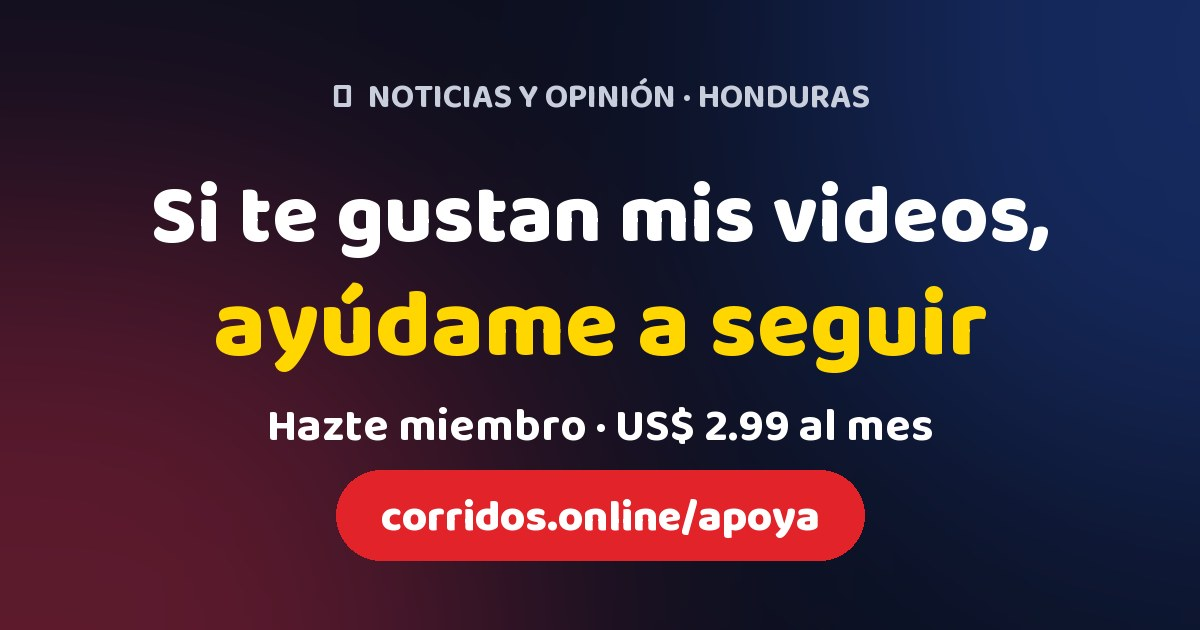
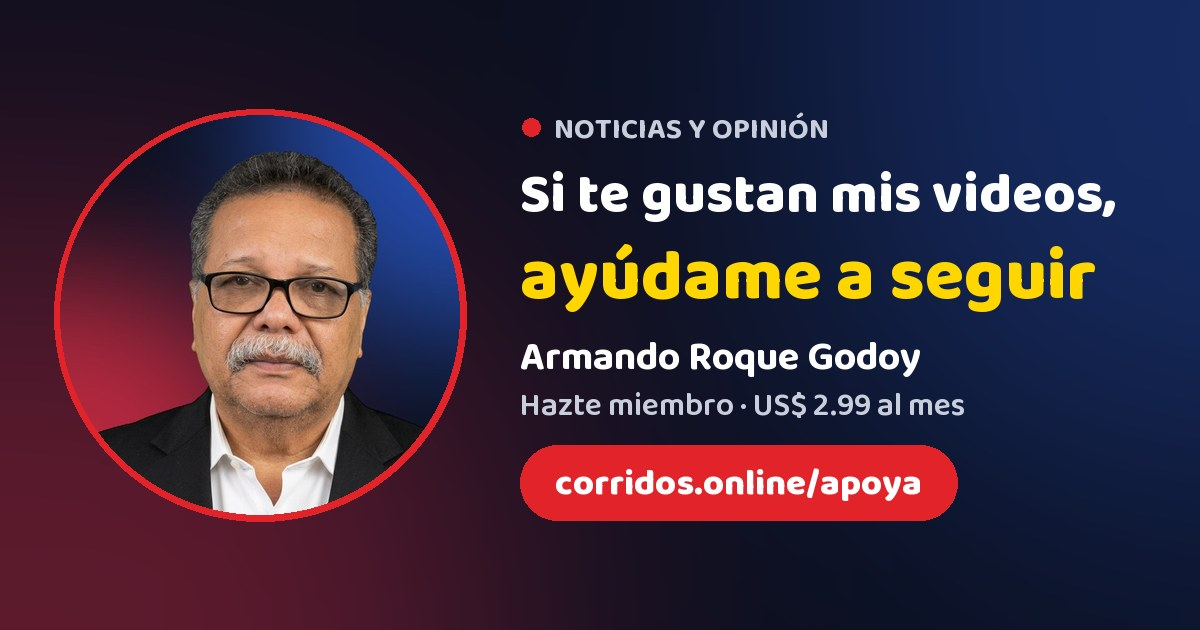
Apoya: foto de perfil de Armando, texto «Honduras y el mundo» y tarjeta de WhatsApp con la foto

diff --git a/app/apoya/page.tsx b/app/apoya/page.tsx
@@ -19,12 +19,12 @@ export const metadata: Metadata = {
   openGraph: {
     title: TITULO,
     description: DESCRIPCION,
-    images: [{ url: '/apoya/og.jpg', width: 1200, height: 630, type: 'image/jpeg' }],
+    images: [{ url: '/apoya/og.jpg?v=2', width: 1200, height: 630, type: 'image/jpeg' }],
     url: URL,
     siteName: 'Canciones',
     type: 'website',
   },
-  twitter: { card: 'summary_large_image', title: TITULO, description: DESCRIPCION, images: ['/apoya/og.jpg'] },
+  twitter: { card: 'summary_large_image', title: TITULO, description: DESCRIPCION, images: ['/apoya/og.jpg?v=2'] },
 };
 
 const BENEFICIOS = [
@@ -50,7 +50,7 @@ export default async function ApoyaPage({ searchParams }: { searchParams: Promis
       <div className={s.contenido}>
         <p className={s.etiqueta}>
           <span className={s.punto} />
-          NOTICIAS Y OPINIÓN · HONDURAS
+          NOTICIAS Y OPINIÓN · HONDURAS Y EL MUNDO
         </p>
 
         {recienPago ? (
@@ -73,12 +73,16 @@ export default async function ApoyaPage({ searchParams }: { searchParams: Promis
           </section>
         ) : null}
 
+        {/* eslint-disable-next-line @next/next/no-img-element */}
+        <img src="/apoya/armando.jpg" alt="Armando Roque Godoy" width={160} height={160} className={s.foto} />
+        <p className={s.nombre}>Armando Roque Godoy</p>
+
         <h1 className={s.titulo}>
           Si te gustan mis videos, <span className={s.resaltado}>ayúdame a seguir</span>
         </h1>
         <p className={s.texto}>
-          Soy Armando Roque Godoy. Hago videos de noticias y opinión sobre lo que pasa en Honduras: preguntas incómodas,
-          datos claros y sin quedarme callado.
+          Soy Armando Roque Godoy. Hago videos de noticias y opinión sobre lo que pasa en Honduras y el
+          mundo.
         </p>
         <p className={s.texto}>
           Cada video lleva horas de investigación, guion, voz y edición. Con tu membresía puedo dedicarle más tiempo y

diff --git a/app/apoya/apoya.module.css b/app/apoya/apoya.module.css
@@ -37,8 +37,27 @@
   50% { opacity: 0.3; }
 }
 
+.foto {
+  display: block;
+  width: 160px;
+  height: 160px;
+  margin: 28px auto 0;
+  border-radius: 50%;
+  border: 4px solid #e2232a;
+  box-shadow: 0 12px 40px rgba(226, 35, 42, 0.35);
+  object-fit: cover;
+}
+
+.nombre {
+  margin-top: 12px;
+  text-align: center;
+  font-size: 18px;
+  font-weight: 700;
+  color: #dfe3ee;
+}
+
 .titulo {
-  margin-top: 28px;
+  margin-top: 20px;
   text-align: center;
   font-size: 36px;
   font-weight: 800;
